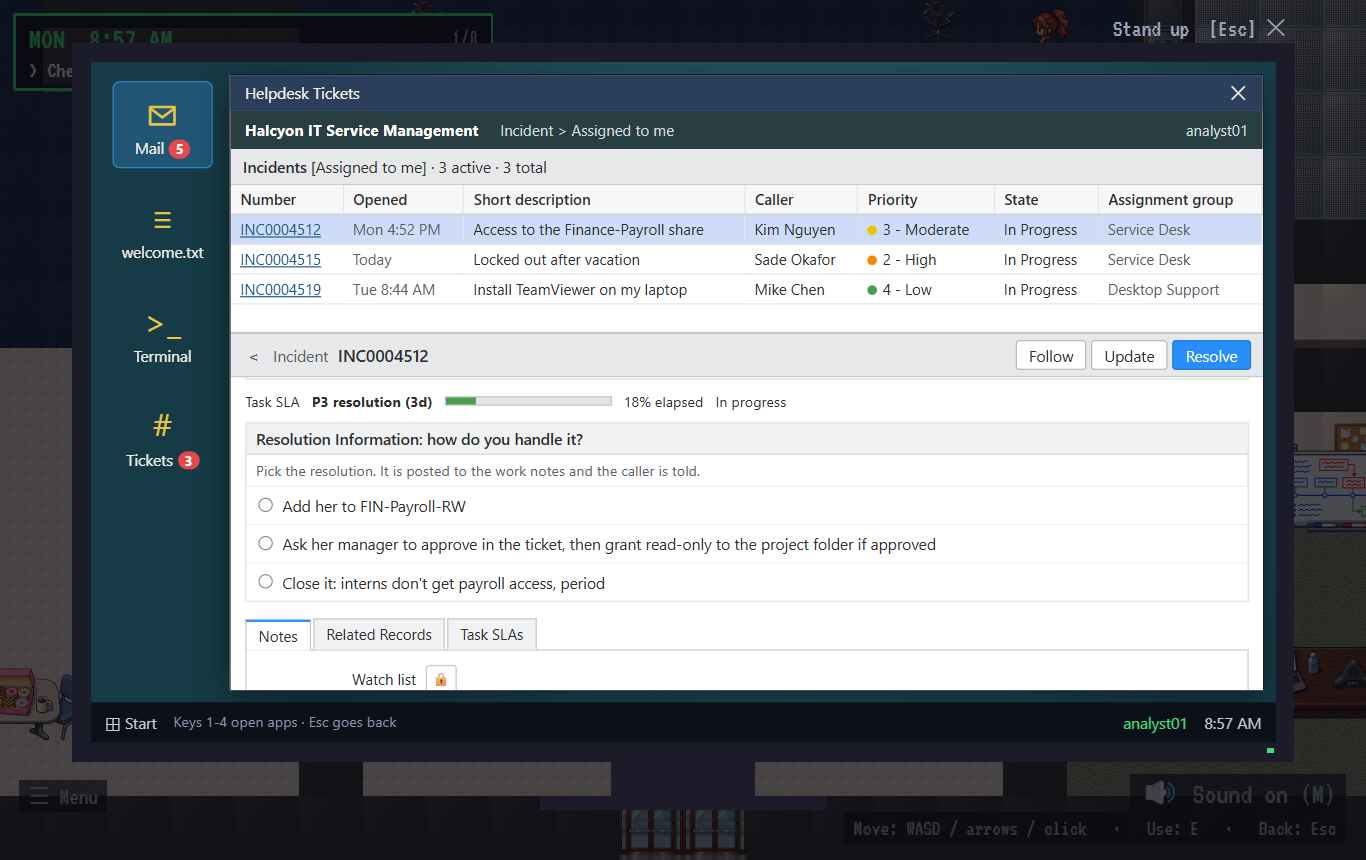
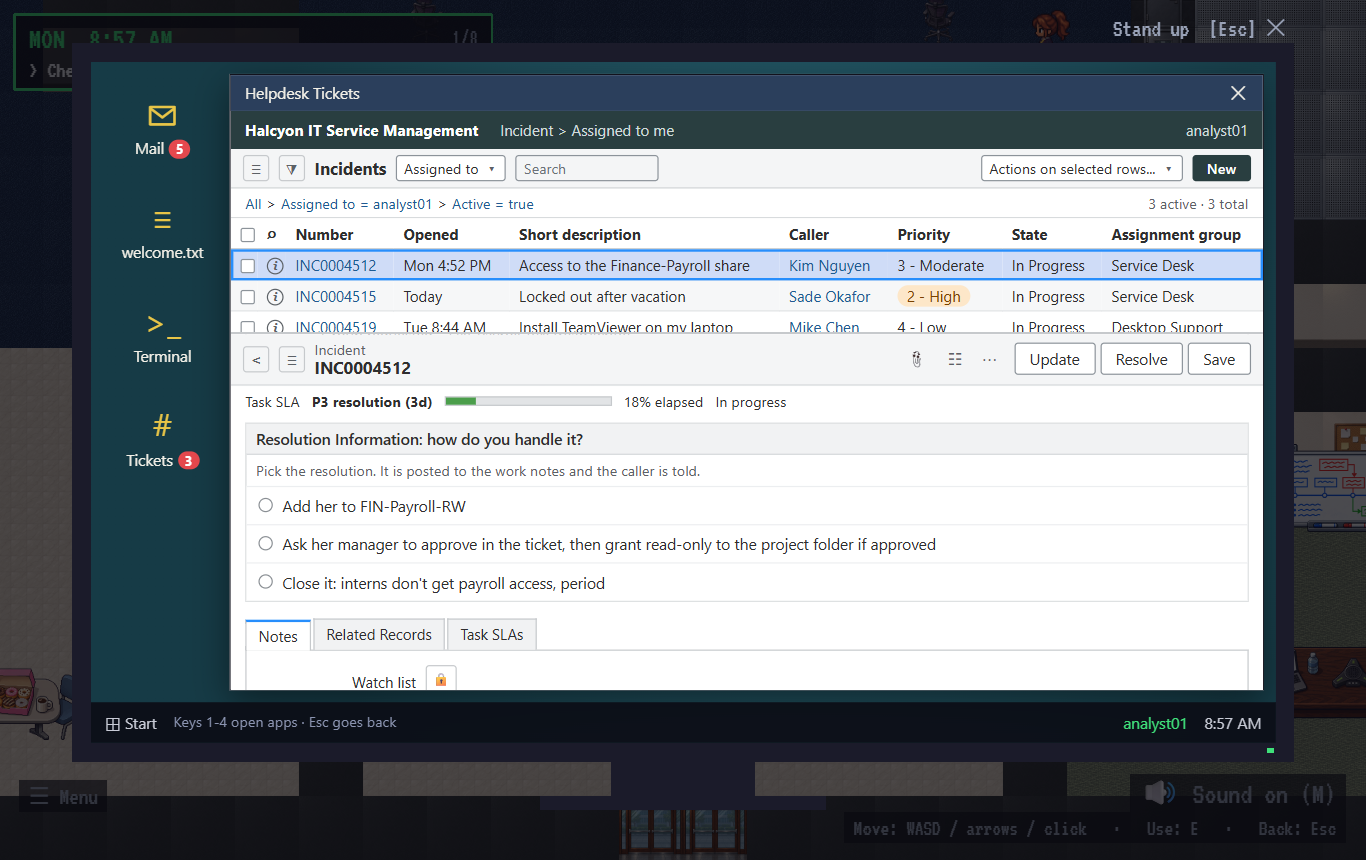
Tickets: keyboard rows, phone rail/scroll, ServiceNow list+form matched to real references
- ticket rows: tabindex=0, role=button, Enter/Space select (Codex P2 on PR #10)
- compact (phone) layout: launcher rail fits above taskbar, form scrolls in window
- real ServiceNow references (Auburn OIT guide) for list and form top; sbs rebuilt without toast
- list toolbar/breadcrumb, checkbox+info columns, zebra rows, pill priority, plain links
- form header two-line title, Update/Resolve/Save, separate lookup buttons, red required marks

Changed region(s): [[0.0615, 0.0907, 0.9224, 0.4535], [0.246, 0.786, 0.3075, 0.8163]]

diff --git a/src/ui/apps/TicketsApp.js b/src/ui/apps/TicketsApp.js
@@ -80,21 +80,47 @@ export class TicketsApp {
       h(
         'div',
         { class: 'tlist sn-list' },
-        h('div', { class: 'thead sn-listhead' }, h('b', {}, 'Incidents'), h('span', {}, ` [Assigned to me]  ·  ${open} active  ·  ${tickets.length} total`)),
+        h('div', { class: 'thead sn-listhead' },
+          h('span', { class: 'sn-ico', 'aria-hidden': 'true' }, '≡'),
+          h('span', { class: 'sn-ico', 'aria-hidden': 'true' }, '⧩'),
+          h('b', {}, 'Incidents'),
+          h('span', { class: 'sn-sel' }, 'Assigned to'),
+          h('span', { class: 'sn-search' }, 'Search'),
+          h('span', { class: 'sn-grow' }),
+          h('span', { class: 'sn-sel wide' }, 'Actions on selected rows...'),
+          h('span', { class: 'sn-new' }, 'New')),
+        h('div', { class: 'sn-crumb' },
+          h('a', { class: 'sn-link' }, 'All'), ' > ', h('a', { class: 'sn-link' }, 'Assigned to = analyst01'), ' > ', h('a', { class: 'sn-link' }, 'Active = true'),
+          h('span', { class: 'sn-count' }, `${open} active · ${tickets.length} total`)),
         tickets.length
           ? h('table', { class: 'sn-table' },
-              h('thead', {}, h('tr', {}, ['Number', 'Opened', 'Short description', 'Caller', 'Priority', 'State', 'Assignment group'].map((c) => h('th', {}, c)))),
+              h('thead', {}, h('tr', {},
+                h('th', { class: 'sn-chk' }, h('span', { class: 'sn-box' })),
+                h('th', { class: 'sn-chk' }, '⌕'),
+                ['Number', 'Opened', 'Short description', 'Caller', 'Priority', 'State', 'Assignment group'].map((c) => h('th', {}, c)))),
               h('tbody', {}, tickets.map((x) => {
                 const f = itsmFields(x);
                 const done = this.state.tickets[x.id];
-                return h('tr', { class: `titem${x.id === this.selected ? ' active' : ''}${done ? ' done' : ''}`, 'data-ticket': x.id, onclick: () => { this.selected = x.id; this.tab = 'notes'; this.render(); } },
+                const pick = () => this.select(x.id);
+                return h('tr', {
+                  class: `titem${x.id === this.selected ? ' active' : ''}${done ? ' done' : ''}`,
+                  'data-ticket': x.id,
+                  tabindex: 0,
+                  role: 'button',
+                  'aria-pressed': x.id === this.selected ? 'true' : 'false',
+                  'aria-label': `${f.number}: ${x.title}`,
+                  onclick: pick,
+                  onkeydown: (e) => { if (e.key === 'Enter' || e.key === ' ' || e.key === 'Spacebar') { e.preventDefault(); e.stopPropagation(); pick(); } },
+                },
+                  h('td', { class: 'sn-chk' }, h('span', { class: 'sn-box' })),
+                  h('td', { class: 'sn-chk' }, h('span', { class: 'sn-info' }, 'i')),
                   h('td', {}, h('a', { class: 'tnum sn-link' }, f.number)),
-                  h('td', { class: 'sn-dim' }, f.opened),
+                  h('td', {}, f.opened),
                   h('td', { class: 'ttitle' }, x.title),
-                  h('td', { class: 'tfrom' }, f.caller),
-                  h('td', {}, h('span', { class: `sn-pri p${f.priority[0]}` }), f.priority),
+                  h('td', { class: 'tfrom' }, h('a', { class: 'sn-link' }, f.caller)),
+                  h('td', {}, h('span', { class: `sn-pri p${f.priority[0]}` }, f.priority)),
                   h('td', {}, done ? h('span', { class: 'tstatus' }, 'Resolved') : h('span', { class: 'tstatus open' }, 'In Progress')),
-                  h('td', { class: 'sn-dim' }, f.group));
+                  h('td', {}, f.group));
               })))
           : h('div', { class: 'empty' }, 'No tickets.'),
       ),
@@ -102,10 +128,22 @@ export class TicketsApp {
     );
   }
 
+  // Select a ticket (mouse or keyboard). Keeps keyboard focus on the chosen row after the re-render.
+  select(id) {
+    const hadFocus = this.el.contains(document.activeElement);
+    this.selected = id;
+    this.tab = 'notes';
+    this.render();
+    if (hadFocus) this.el.querySelector(`tr[data-ticket="${CSS.escape(id)}"]`)?.focus();
+  }
+
   field(label, value, opts = {}) {
     return h('div', { class: `sn-field${opts.wide ? ' wide' : ''}` },
-      h('label', {}, opts.req ? h('span', { class: 'sn-req' }, '*') : null, label),
-      h('div', { class: `sn-input${opts.ref ? ' ref' : ''}${opts.ro ? ' ro' : ''}${opts.select ? ' select' : ''}` }, value || ''),
+      h('label', {}, opts.req ? h('span', { class: 'sn-req' }, '✱') : null, label),
+      h('div', { class: 'sn-ctl' },
+        h('div', { class: `sn-input${opts.ref ? ' ref' : ''}${opts.ro ? ' ro' : ''}${opts.select ? ' select' : ''}` }, value || ''),
+        opts.ref ? h('span', { class: 'sn-lookup', 'aria-hidden': 'true' }, '⌕') : null,
+        opts.info ? h('span', { class: 'sn-infobtn', 'aria-hidden': 'true' }, 'i') : null),
     );
   }
 
@@ -129,19 +167,21 @@ export class TicketsApp {
     return [
       h('div', { class: 'sn-formhead' },
         h('span', { class: 'sn-back' }, '<'),
-        h('span', { class: 'sn-rectype' }, 'Incident'),
-        h('h2', {}, f.number),
+        h('span', { class: 'sn-ico', 'aria-hidden': 'true' }, '≡'),
+        h('div', { class: 'sn-title' }, h('span', { class: 'sn-rectype' }, 'Incident'), h('h2', {}, f.number)),
+        h('span', { class: 'sn-grow' }),
+        h('span', { class: 'sn-tools', 'aria-hidden': 'true' }, '📎', ' ☷', ' ⋯'),
         h('span', { class: 'sn-btns' },
-          h('button', { type: 'button', class: 'sn-btn' }, 'Follow'),
           h('button', { type: 'button', class: 'sn-btn' }, 'Update'),
-          h('button', { type: 'button', class: 'sn-btn primary', onclick: () => this.el.querySelector('.toptions')?.scrollIntoView({ block: 'nearest' }) }, 'Resolve'),
+          h('button', { type: 'button', class: 'sn-btn', onclick: () => this.el.querySelector('.toptions')?.scrollIntoView({ block: 'nearest' }) }, 'Resolve'),
+          h('button', { type: 'button', class: 'sn-btn' }, 'Save'),
         ),
       ),
       h('div', { class: 'sn-flow' }, ['New', 'In Progress', 'On Hold', 'Resolved', 'Closed'].map((s) => h('span', { class: s === state ? 'on' : (s === 'New' || (decided && s === 'In Progress')) ? 'past' : '' }, s))),
       h('div', { class: 'sn-grid' },
         h('div', {},
           this.field('Number', f.number, { ro: true }),
-          this.field('Caller', f.caller, { req: true, ref: true }),
+          this.field('Caller', f.caller, { req: true, ref: true, info: true }),
           this.field('Department', f.dept, { ro: true }),
           this.field('Category', f.category, { select: true }),
           this.field('Subcategory', f.subcategory, { select: true }),
@@ -154,7 +194,7 @@ export class TicketsApp {
           this.field('Impact', f.impact, { select: true }),
           this.field('Urgency', f.urgency, { select: true }),
           this.field('Priority', f.priority, { ro: true }),
-          this.field('Assignment group', f.group, { ref: true }),
+          this.field('Assignment group', f.group, { ref: true, req: true }),
           this.field('Assigned to', 'analyst01', { ref: true }),
         ),
       ),

diff --git a/src/ui/screen.css b/src/ui/screen.css
@@ -1007,3 +1007,60 @@ a.eg-tid:hover { text-decoration: underline; }
   .eg-events { max-height: 340px; }
 }
 .eg-wrap .eg-term-next { margin-top: 8px; font: 600 14px system-ui, sans-serif; }
+
+/* Tickets: keyboard focus on incident rows (rows are tab stops; Enter/Space selects). */
+.sn-table tr.titem:focus { outline: 2px solid #278efc; outline-offset: -2px; }
+.sn-table tr.titem:focus-visible { outline: 2px solid #278efc; outline-offset: -2px; }
+
+/* Short viewports (landscape phone, compact mode): the desktop rail must fit above the taskbar,
+   and the Tickets window scrolls as one page (list, then the full incident form) instead of
+   squeezing the form into a 2-row strip under the list. */
+.screen.compact .icons { top: 8px; bottom: 42px; gap: 2px; overflow-y: auto; overscroll-behavior: contain; scrollbar-width: none; }
+.screen.compact .icon { width: 76px; padding: 2px; flex: none; }
+.screen.compact .icon .glyph { font-size: 22px; line-height: 28px; }
+.screen.compact .tickets { display: block; height: 100%; overflow-y: auto; -webkit-overflow-scrolling: touch; }
+.screen.compact .tickets .tlist { overflow: visible; }
+.screen.compact .tickets .thead { position: static; }
+.screen.compact .tickets .tdetail { overflow: visible; }
+.screen.compact .tickets .sn-formhead { top: 0; }
+
+/* ServiceNow list/form, matched to docs/reference/servicenow-incident-list.png and -form-top.png */
+.thead.sn-listhead { display: flex; align-items: center; gap: 8px; background: #fff; border-bottom: 1px solid #d5d8da; padding: 5px 10px; }
+.sn-listhead b { font-weight: 700; font-size: 14px; }
+.sn-ico { color: #5c6166; font-size: 15px; width: 22px; height: 22px; display: inline-grid; place-items: center; border: 1px solid #c6c9cc; border-radius: 3px; }
+.sn-sel { border: 1px solid #8c939a; border-radius: 3px; padding: 2px 22px 2px 6px; position: relative; font-size: 12px; background: #fff; }
+.sn-sel::after { content: "\25BE"; position: absolute; right: 6px; top: 2px; color: #5c6166; }
+.sn-search { border: 1px solid #8c939a; border-radius: 3px; padding: 2px 6px; width: 120px; color: #6b7177; font-size: 12px; }
+.sn-grow { flex: 1; }
+.sn-new { background: #293e40; color: #fff; border-radius: 3px; padding: 3px 12px; font-size: 12px; font-weight: 600; }
+.sn-crumb { padding: 4px 12px; font-size: 12px; color: #2e2e2e; border-bottom: 1px solid #d5d8da; background: #fff; display: flex; gap: 4px; align-items: center; }
+.sn-count { margin-left: auto; color: #5c6166; }
+.sn-table th { background: #fff; border-right: none; border-bottom: 1px solid #c6c9cc; font-weight: 700; }
+.sn-table tbody tr.titem:nth-child(even) { background: #f6f7f8; }
+.sn-table tbody tr.titem:hover { background: #eef4f9; }
+.sn-table tbody tr.titem.active { background: #cfdcf7; }
+.sn-chk { width: 18px; padding: 4px 2px 4px 8px !important; color: #5c6166; }
+.sn-box { display: inline-block; width: 12px; height: 12px; border: 1px solid #8c939a; border-radius: 2px; background: #fff; vertical-align: middle; }
+.sn-info { display: inline-grid; place-items: center; width: 14px; height: 14px; border: 1px solid #5c6166; border-radius: 50%; font: italic 700 9px Georgia, serif; color: #5c6166; }
+.tnum, .sn-link { color: #1f5a92; text-decoration: none; }
+.sn-table .sn-pri { display: inline; width: auto; height: auto; border-radius: 10px; margin: 0; background: none; padding: 1px 0; }
+.sn-table .sn-pri.p1 { background: #fde3e3; color: #8c1c1c; padding: 1px 8px; }
+.sn-table .sn-pri.p2 { background: #fde7c9; color: #7a4100; padding: 1px 8px; }
+.sn-table .sn-pri.p3, .sn-table .sn-pri.p4 { background: none; color: #2e2e2e; }
+.sn-formhead { background: #fff; border-bottom: 1px solid #d5d8da; padding: 6px 10px; }
+.sn-back { border: 1px solid #c6c9cc; border-radius: 3px; width: 22px; height: 22px; display: inline-grid; place-items: center; padding: 0; }
+.sn-title { display: flex; flex-direction: column; line-height: 1.15; }
+.sn-title .sn-rectype { font-size: 12px; }
+.sn-title h2 { margin: 0; font-size: 14px; font-weight: 700; }
+.sn-tools { color: #5c6166; letter-spacing: 6px; font-size: 14px; }
+.sn-btn { font-weight: 600; border-color: #8c939a; padding: 4px 12px; }
+.sn-ctl { display: flex; gap: 4px; align-items: stretch; min-width: 0; }
+.sn-ctl .sn-input { flex: 1; min-width: 0; }
+.sn-input { border-color: #8c939a; border-radius: 3px; min-height: 28px; padding: 5px 7px; }
+.sn-input.ro { background: #e9ebed; border-color: #e9ebed; }
+.sn-input.ref { padding-right: 7px; }
+.sn-input.ref::after { content: none; }
+.sn-lookup, .sn-infobtn { flex: none; width: 28px; border: 1px solid #8c939a; border-radius: 3px; display: grid; place-items: center; color: #2e2e2e; background: #fff; font-size: 14px; }
+.sn-infobtn { font: italic 700 12px Georgia, serif; }
+.sn-field label { padding-top: 6px; }
+.thead.sn-listhead, .sn-formhead { background: #f4f5f6; }

diff --git a/docs/reference/README.md b/docs/reference/README.md
@@ -39,3 +39,15 @@ All files come from Wikimedia Commons (free licences; see each file page for aut
   ServiceNow training guide: https://mylinccontent.dsc.umich.edu/mais/html/SL_InvestigateDiagnoseResolveanIncident.html
   Our Tickets app copies its grey field labels, flat inputs with lookup icons, state flow bar, work-notes
   activity stream and blue Update / Resolve buttons. Side by side: docs/proof/tickets/sbs-servicenow.png.
+- **servicenow-incident-list.png** (real ServiceNow incident list, 2024) and **servicenow-incident-form-top.png**
+  (top of a real incident form) from Auburn University OIT, "ServiceNow: Agent Basics" PDF, pages 38 and 12:
+  https://htmlscript.auburn.edu/oit/pdfs/snowtraining-agentbasics.pdf
+  Side by side (Nov 6, 2026, fix-up run): docs/proof/tickets/sbs-servicenow.png (real list | ours, real form top | ours,
+  no toast). Differences found and fixed: list toolbar (≡, filter, bold "Incidents", "Assigned to" picker, Search,
+  "Actions on selected rows...", dark "New"), "All > ... > Active = true" breadcrumb, white bold header row without
+  vertical rules, checkbox and (i) columns, zebra rows, blue non-underlined links (Number and Caller), priority as
+  plain text with an orange "2 - High" pill instead of coloured dots; form header with boxed back button, ≡, two-line
+  "Incident / INC…" title, paperclip / settings / ⋯ icons and white Update / Resolve / Save buttons (no blue primary);
+  red ✱ required marks, taller inputs with darker borders, separate magnifier box on reference fields, (i) after
+  Caller, grey borderless read-only fields. Kept on purpose: the state flow bar (a real ServiceNow "process flow"
+  formatter some instances turn on; not in this reference) and a smaller field set.
